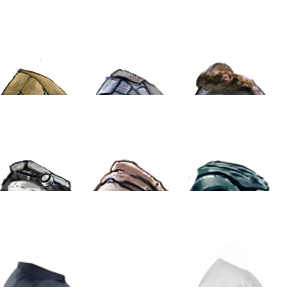
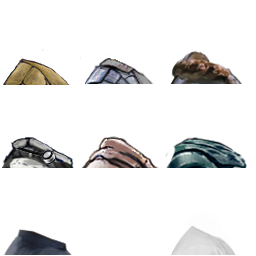
Fixed and re-enabled job indicators

diff --git a/Barotrauma/BarotraumaClient/Source/Characters/CharacterInfo.cs b/Barotrauma/BarotraumaClient/Source/Characters/CharacterInfo.cs
@@ -215,8 +215,6 @@ namespace Barotrauma
 
         private void DrawAttachmentSprite(SpriteBatch spriteBatch, WearableSprite attachment, Sprite head, Vector2 drawPos, float scale, float depthStep, SpriteEffects spriteEffects = SpriteEffects.None)
         {
-            // Disable job indicators for now TODO: undo and fix them
-            if (attachment.Type == WearableType.JobIndicator) { return; }
             if (attachment.InheritSourceRect)
             {
                 if (attachment.SheetIndex.HasValue)
